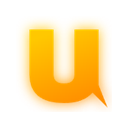
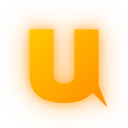
feat(store): ikona s glow generovaná stejným pipeline jako dlaždice
icon128-store.png se dosud dělal jednorázově přes System.Drawing. Teď má
vlastní zdroj assets/icon.html a jede přes build-promo.ps1 — kresba z
logo.svg na 96x96 + oranžový glow rozlitý do 16px okraje, který store
u ikon vyžaduje.

Pozadí zůstává průhledné (--default-background-color=00000000); tmavý
čtverec by ikonu v katalogu orámoval na rozdíl od ostatních položek.

diff --git a/store/listing/assets/icon.html b/store/listing/assets/icon.html
@@ -1,0 +1,42 @@
+<!doctype html>
+<html lang="cs">
+<head>
+<meta charset="utf-8">
+<title>UnityChat store icon</title>
+<!--
+  Zdroj store ikony (128x128). Proti extension/icons/icon128.png má dvě
+  změny, které Chrome Web Store vyžaduje nebo odměňuje:
+
+    1. kresba je 96x96 vycentrovaná ve 128x128 — store čeká 16 px
+       průhledného okraje, jinak ikona vypadá větší než ostatní v katalogu
+    2. oranžový glow, který se rozlévá do toho okraje (proto tam ten prostor
+       vlastně je) — stejný efekt jako na brand grafice, ale s průhledným
+       pozadím, ne na tmavém čtverci
+
+  Render: scripts/build-promo.ps1
+-->
+<style>
+  * { margin: 0; padding: 0; }
+  html, body {
+    width: 128px;
+    height: 128px;
+    overflow: hidden;
+    background: transparent;
+  }
+  body { display: grid; place-items: center; }
+
+  .icon {
+    width: 96px;
+    height: 96px;
+    /* Dvě vrstvy: těsný jasný glow + širší měkký nádech. Vejde se do
+       16px okraje, takže kresba zůstává v 96x96 safe zóně. */
+    filter:
+      drop-shadow(0 0 5px rgba(255, 170, 40, 0.85))
+      drop-shadow(0 0 13px rgba(255, 140, 0, 0.55));
+  }
+</style>
+</head>
+<body>
+  <img class="icon" src="logo.svg" alt="">
+</body>
+</html>

diff --git a/store/listing/assets-checklist.md b/store/listing/assets-checklist.md
@@ -18,7 +18,8 @@ Bez těchto tří položek nejde item publikovat.
 powershell -ExecutionPolicy Bypass -File scripts\build-promo.ps1
 ```
 
-Obě dlaždice (440×280 i 1400×560) vznikají z jednoho zdroje
+Skript renderuje tři assety: obě dlaždice a store ikonu.
+Dlaždice (440×280 i 1400×560) vznikají z jednoho zdroje
 `assets/promo.html` — `?size=small|marquee` přepíná měřítko a kompozici
 (small staví na výšku, marquee je logo vedle textu). Renderuje headless
 Chrome, skript ověří výsledné rozměry, protože špatně velký asset dashboard
@@ -34,10 +35,15 @@ Logo je v `assets/logo.svg` — vektor vytažený z `logo-designer.html`
 okraj 4/0/4/0 px), zatímco store čeká **96×96 kresby a 16 px průhledného
 okraje**. Bez úpravy by ikona ve store vypadala větší než ostatní.
 
-Store varianta je proto v `assets/icon128-store.png` — stejná kresba
-přeškálovaná na 96×96 a vycentrovaná ve 128×128 (ověřený okraj 19/16/19/16 px,
-rozdíl je vlastní odsazení původní kresby). **Nahrává se v dashboardu, do
-balíčku nepatří** — rozšíření samo dál používá původní ikonu.
+Store varianta `assets/icon128-store.png` se generuje týmž skriptem jako
+dlaždice, ze zdroje `assets/icon.html`: kresba z `logo.svg` škálovaná na
+96×96, vycentrovaná a s oražovým glow, který se rozlévá právě do toho
+16px okraje. Pozadí zůstává průhledné (`--default-background-color=00000000`)
+— tmavý čtverec by ve store katalogu rámoval kolem ikony, na rozdíl od
+ostatních položek.
+
+**Nahrává se v dashboardu, do balíčku nepatří** — rozšíření samo dál
+používá původní `extension/icons/icon128.png`.
 
 ## Volitelné, ale vyplatí se
 
